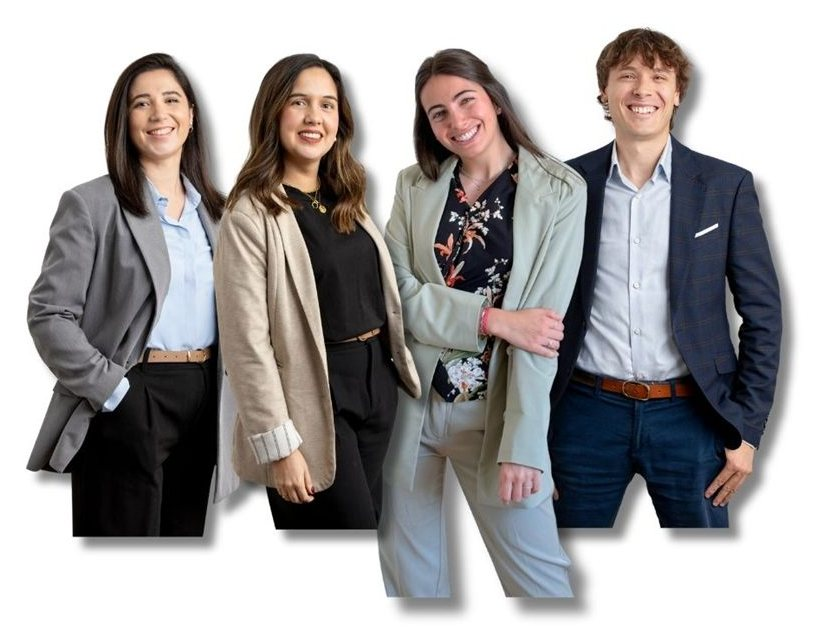
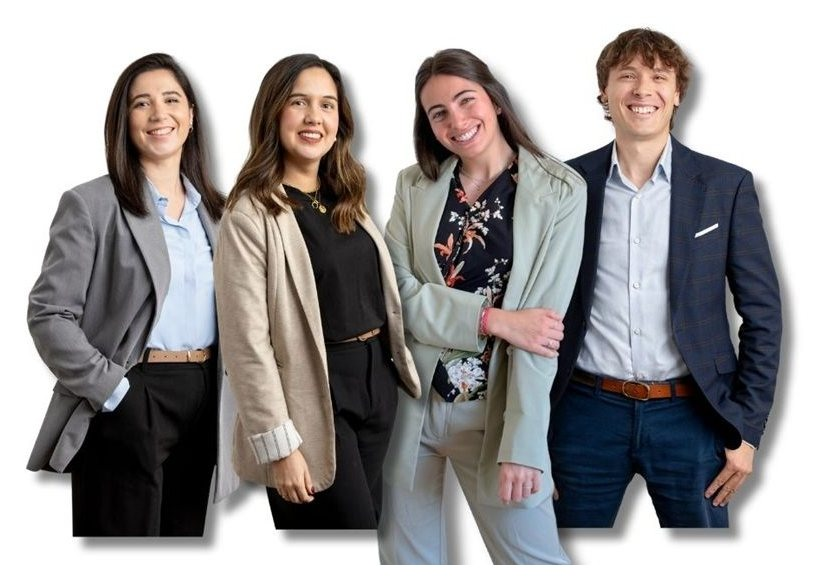
Second feedback pass: typography, checklist order, photo crops, events layout
- Unify eyebrow/label/team-name/event-date font to Inter site-wide (was mixed with mono)
- For Hotels: reorder role checklist so "no cure, no pay" pairs with "contacts, already in place"; fix 2-line wrap on "From first conversation to first results" (EN+ES)
- Re-crop team-series.jpg and team-product.jpg with proper top/bottom breathing room (previous crop touched the frame edge)
- Trim excess visible leg on team-adhoc.jpg
- Redesign Events attendee row: drop name text, bigger avatar with an email badge overlay, moved into its own full-width strip so multi-attendee fairs (FITUR) don't wrap into a mess

diff --git a/assets/css/style.css b/assets/css/style.css
@@ -46,7 +46,7 @@ h2 { font-size: clamp(1.6rem, 3vw, 2.3rem); }
 h3 { font-size: 1.2rem; font-weight: 600; }
 p { margin: 0 0 16px; color: var(--ink-soft); }
 .lede { font-size: 1.2rem; color: var(--ink-soft); max-width: 56ch; }
-.eyebrow { font-family: var(--font-mono); text-transform: uppercase; letter-spacing: 0.1em; font-size: 0.74rem; font-weight: 700; color: var(--brand); margin-bottom: 10px; display: block; }
+.eyebrow { text-transform: uppercase; letter-spacing: 0.1em; font-size: 0.74rem; font-weight: 700; color: var(--brand); margin-bottom: 10px; display: block; }
 .kicker-quote { font-size: 1.3rem; font-weight: 600; font-style: italic; color: var(--ink); border-left: 3px solid var(--brand); padding-left: 16px; margin: 24px 0; }
 .intro-band { background: linear-gradient(135deg, var(--brand-tint) 0%, var(--accent-hotel-tint) 100%); border-radius: var(--radius-lg); padding: 44px 48px; }
 .intro-band .lede { font-size: 1.2rem; font-weight: 500; color: var(--ink); max-width: none; margin: 0 auto; text-wrap: pretty; }
@@ -112,6 +112,9 @@ section { padding: 64px 0; }
 .section-tight { padding: 44px 0; }
 .section-head { max-width: 62ch; margin-bottom: 36px; }
 .center { text-align: center; margin-left: auto; margin-right: auto; }
+.heading-nowrap { max-width: none; }
+.section-head:has(.heading-nowrap) { max-width: none; }
+@media (min-width: 641px) { .heading-nowrap { white-space: nowrap; } }
 
 /* ---------- Stat strip ---------- */
 .stat-strip { display: grid; grid-template-columns: repeat(auto-fit, minmax(140px, 1fr)); gap: 18px; padding: 26px; background: var(--brand); border-radius: var(--radius-lg); color: #fff; }
@@ -155,7 +158,7 @@ section { padding: 64px 0; }
 /* ---------- Steps ---------- */
 .step-grid { display: grid; grid-template-columns: repeat(4, 1fr); gap: 18px; counter-reset: step; }
 .step { border-top: 3px solid var(--brand); padding-top: 14px; }
-.step .step-no { font-family: var(--font-mono); font-size: 0.78rem; font-weight: 700; color: var(--brand); letter-spacing: 0.04em; }
+.step .step-no { font-size: 0.78rem; font-weight: 700; color: var(--brand); letter-spacing: 0.04em; }
 
 /* ---------- Team / testimonial ---------- */
 .testimonial { background: var(--ink); color: #fff; border-radius: var(--radius-lg); padding: 40px; }
@@ -163,7 +166,7 @@ section { padding: 64px 0; }
 .testimonial cite { font-style: normal; font-size: 0.85rem; opacity: 0.7; display: block; margin-top: 14px; }
 .team-dept { margin-bottom: 40px; }
 .team-dept:last-child { margin-bottom: 0; }
-.team-dept-heading { font-family: var(--font-mono); font-size: 0.74rem; font-weight: 600; letter-spacing: 0.08em; text-transform: uppercase; color: var(--dept-color, var(--brand)); margin: 0 0 18px; padding-bottom: 10px; border-bottom: 1px solid var(--line); }
+.team-dept-heading { font-size: 0.74rem; font-weight: 600; letter-spacing: 0.08em; text-transform: uppercase; color: var(--dept-color, var(--brand)); margin: 0 0 18px; padding-bottom: 10px; border-bottom: 1px solid var(--line); }
 .team-grid { display: grid; grid-template-columns: repeat(auto-fit, minmax(130px, 1fr)); gap: 16px; }
 .team-card { text-align: center; }
 .team-linkedin { display: inline-flex; align-items: center; justify-content: center; margin-top: 6px; color: var(--ink-soft); }
@@ -176,7 +179,7 @@ section { padding: 64px 0; }
 .team-avatar:hover .team-contact, .team-avatar:focus-within .team-contact { opacity: 1; }
 .team-contact a { color: #fff; font-size: 0.68rem; font-weight: 600; line-height: 1.3; text-align: center; word-break: break-word; text-decoration: none; }
 .team-contact a:hover { text-decoration: underline; }
-.team-card strong { display: block; font-family: var(--font-mono); font-size: 0.7rem; font-weight: 600; letter-spacing: 0.04em; text-transform: uppercase; color: var(--ink-soft); }
+.team-card strong { display: block; font-size: 0.7rem; font-weight: 600; letter-spacing: 0.04em; text-transform: uppercase; color: var(--ink-soft); }
 .team-card span { font-size: 0.8rem; color: var(--ink-soft); }
 @media (hover: none) {
   .team-contact { position: static; opacity: 1; background: none; padding: 2px 0 0; gap: 0; }
@@ -216,10 +219,11 @@ input:focus, select:focus, textarea:focus { outline: 2px solid var(--brand); out
 .office-grid { display: grid; grid-template-columns: 1fr 1fr; gap: 22px; }
 
 /* ---------- Events ---------- */
-.event-row { display: flex; align-items: center; padding: 26px 0; border-bottom: 1px solid var(--line); gap: 28px; }
+.event-row { display: flex; flex-direction: column; gap: 18px; padding: 26px 0; border-bottom: 1px solid var(--line); }
+.event-main { display: flex; align-items: center; gap: 28px; }
 .event-date { flex: none; width: 150px; display: flex; align-items: baseline; gap: 10px; padding-right: 24px; border-right: 1px solid var(--line); }
 .event-day { display: block; font-family: "Fraunces", Georgia, serif; font-variation-settings: "SOFT" 40, "WONK" 0; font-size: 1.4rem; font-weight: 600; color: var(--brand); line-height: 1; white-space: nowrap; }
-.event-month { display: block; font-family: var(--font-mono); font-size: 0.68rem; font-weight: 600; letter-spacing: 0.08em; text-transform: uppercase; color: var(--ink-soft); white-space: nowrap; }
+.event-month { display: block; font-size: 0.68rem; font-weight: 600; letter-spacing: 0.08em; text-transform: uppercase; color: var(--ink-soft); white-space: nowrap; }
 .event-logo-box { width: 88px; height: 52px; flex: none; display: flex; align-items: center; justify-content: center; border: 1px solid var(--line); border-radius: var(--radius); background: var(--paper); padding: 8px; }
 .event-logo-box.dark { background: var(--ink); border-color: var(--ink); }
 .event-logo-box img { max-width: 100%; max-height: 100%; object-fit: contain; filter: grayscale(1); opacity: 0.75; transition: filter 0.3s ease, opacity 0.3s ease; }
@@ -227,16 +231,16 @@ input:focus, select:focus, textarea:focus { outline: 2px solid var(--brand); out
 .event-logo-box.text-fallback { font-weight: 800; font-size: 0.72rem; letter-spacing: 0.02em; color: var(--ink-soft); text-align: center; line-height: 1.1; }
 .event-info { min-width: 0; flex: 1; }
 .event-info strong { display: block; font-family: "Fraunces", Georgia, serif; font-weight: 600; font-size: 1.08rem; }
-.event-info span { font-family: var(--font-mono); color: var(--ink-soft); font-size: 0.82rem; }
-.event-attendees { flex: none; display: flex; flex-wrap: wrap; gap: 10px 16px; max-width: 320px; }
-.event-attendee { display: flex; align-items: center; gap: 6px; font-size: 0.8rem; color: var(--ink-soft); }
-.event-attendee-photo { width: 26px; height: 26px; border-radius: 50%; object-fit: cover; flex: none; }
-.event-attendee-email { display: flex; flex: none; color: var(--ink-soft); opacity: 0.6; transition: opacity 0.2s ease, color 0.2s ease; }
-.event-attendee-email:hover { opacity: 1; color: var(--brand); }
-.event-attendee-email svg { width: 15px; height: 15px; }
+.event-info span { color: var(--ink-soft); font-size: 0.82rem; }
+.event-attendees { display: flex; flex-wrap: wrap; gap: 14px; padding-left: 178px; }
+.event-attendee { position: relative; flex: none; }
+.event-attendee-photo { width: 44px; height: 44px; border-radius: 50%; object-fit: cover; display: block; border: 1.5px solid var(--rule); }
+.event-attendee-email { position: absolute; right: -3px; bottom: -3px; display: flex; align-items: center; justify-content: center; width: 20px; height: 20px; border-radius: 50%; background: var(--brand); color: #fff; border: 2px solid #fff; transition: transform 0.15s ease, background 0.15s ease; }
+.event-attendee-email:hover { transform: scale(1.12); background: var(--accent-hotel); }
+.event-attendee-email svg { width: 11px; height: 11px; }
 @media (max-width: 720px) {
   .event-date { width: auto; padding-right: 0; border-right: none; }
-  .event-attendees { max-width: none; }
+  .event-attendees { padding-left: 0; }
 }
 
 /* ---------- CTA band ---------- */
@@ -274,7 +278,7 @@ input:focus, select:focus, textarea:focus { outline: 2px solid var(--brand); out
   .path-grid, .grid-2, .grid-3, .grid-4, .office-grid, .form-grid { grid-template-columns: 1fr; }
   .step-grid, .team-grid { grid-template-columns: 1fr 1fr; }
   .footer-grid { grid-template-columns: 1fr; }
-  .event-row { flex-direction: column; align-items: flex-start; gap: 4px; }
+  .event-main { flex-wrap: wrap; row-gap: 8px; }
   .cta-band { padding: 32px 20px; }
 }
 

diff --git a/assets/js/content-loader.js b/assets/js/content-loader.js
@@ -75,21 +75,22 @@ function renderList(container, items, type) {
               item.attendees
                 .map(function (person) {
                   return (
-                    '<span class="event-attendee"><img class="event-attendee-photo" src="' +
-                    escapeHtml(person.photo) + '" alt="' + escapeHtml(person.name) + '" loading="lazy" />' +
-                    "<span>" + escapeHtml(person.name) + "</span>" +
+                    '<span class="event-attendee" title="' + escapeHtml(person.name) + '">' +
+                    '<img class="event-attendee-photo" src="' + escapeHtml(person.photo) +
+                    '" alt="' + escapeHtml(person.name) + '" loading="lazy" />' +
                     '<a class="event-attendee-email" href="mailto:' + escapeHtml(person.email) +
-                    '" aria-label="Email ' + escapeHtml(person.name) + '"><svg viewBox="0 0 24 24" fill="none" stroke="currentColor" stroke-width="2"><rect x="2" y="4" width="20" height="16" rx="2"/><path d="m2 7 10 6 10-6"/></svg></a></span>'
+                    '" aria-label="Email ' + escapeHtml(person.name) +
+                    '"><svg viewBox="0 0 24 24" fill="none" stroke="currentColor" stroke-width="2.4"><rect x="2" y="4" width="20" height="16" rx="2"/><path d="m2 7 10 6 10-6"/></svg></a></span>'
                   );
                 })
                 .join("") +
               "</div>";
           }
           return (
-            '<div class="event-row"><div class="event-date"><span class="event-day">' + escapeHtml(item.day) +
-            '</span><span class="event-month">' + escapeHtml(item.month) + "</span></div>" + logoHtml +
-            '<div class="event-info"><strong>' + escapeHtml(item.name) + "</strong><span>" +
-            escapeHtml(item.city) + "</span></div>" + attendeesHtml + "</div>"
+            '<div class="event-row"><div class="event-main"><div class="event-date"><span class="event-day">' +
+            escapeHtml(item.day) + '</span><span class="event-month">' + escapeHtml(item.month) + "</span></div>" +
+            logoHtml + '<div class="event-info"><strong>' + escapeHtml(item.name) + "</strong><span>" +
+            escapeHtml(item.city) + "</span></div></div>" + attendeesHtml + "</div>"
           );
 
         default:

diff --git a/es/para-hoteles.html b/es/para-hoteles.html
@@ -73,7 +73,7 @@
   <div class="container">
     <div class="section-head">
       <span class="eyebrow">El proceso de arranque</span>
-      <h2>De la primera conversación a los primeros resultados</h2>
+      <h2 class="heading-nowrap">De la primera conversación a los primeros resultados</h2>
     </div>
     <div class="step-grid" data-cms-list="steps" data-cms-list-type="steps">
       <div class="step"><span class="step-no">PASO 1 · ONBOARDING</span><h3>Entender</h3><p>Entendemos tu posicionamiento, mercados objetivo y prioridades.</p></div>

diff --git a/for-hotels.html b/for-hotels.html
@@ -73,7 +73,7 @@
   <div class="container">
     <div class="section-head">
       <span class="eyebrow">The kick-off process</span>
-      <h2>From first conversation to first results</h2>
+      <h2 class="heading-nowrap">From first conversation to first results</h2>
     </div>
     <div class="step-grid" data-cms-list="steps" data-cms-list-type="steps">
       <div class="step"><span class="step-no">STEP 1 · ONBOARDING</span><h3>Understand</h3><p>We understand your positioning, target markets and priorities.</p></div>